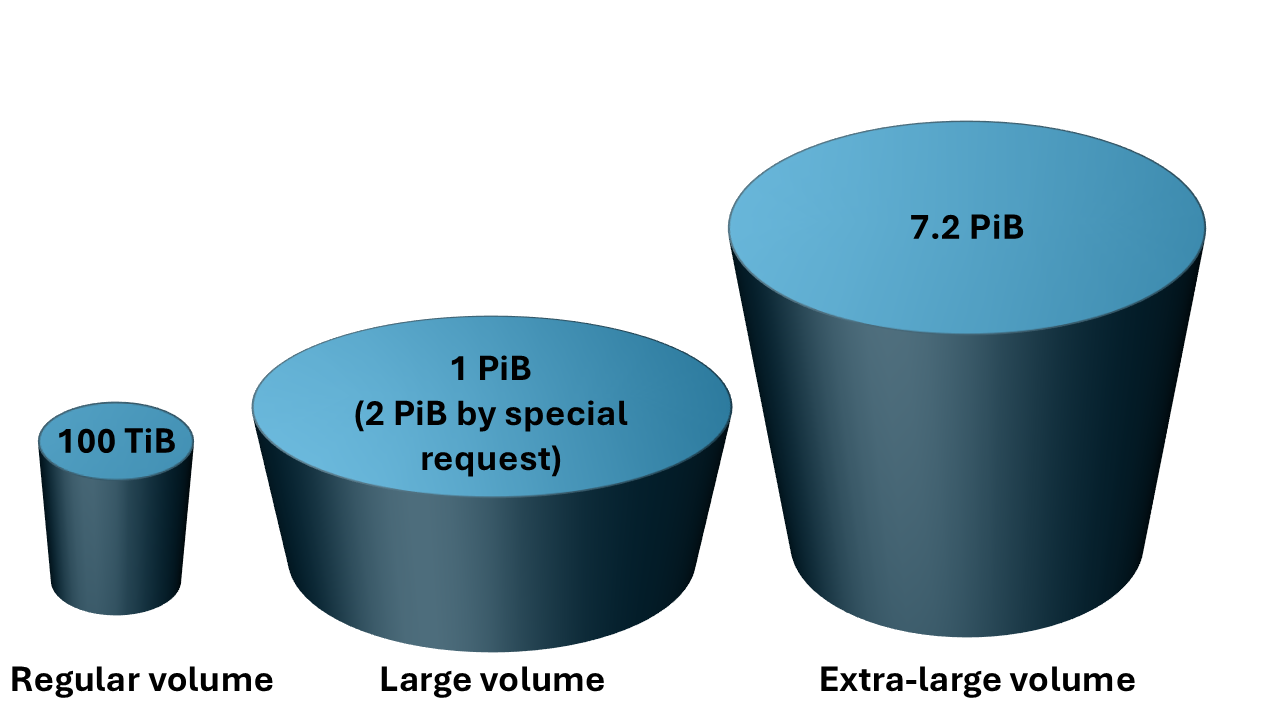
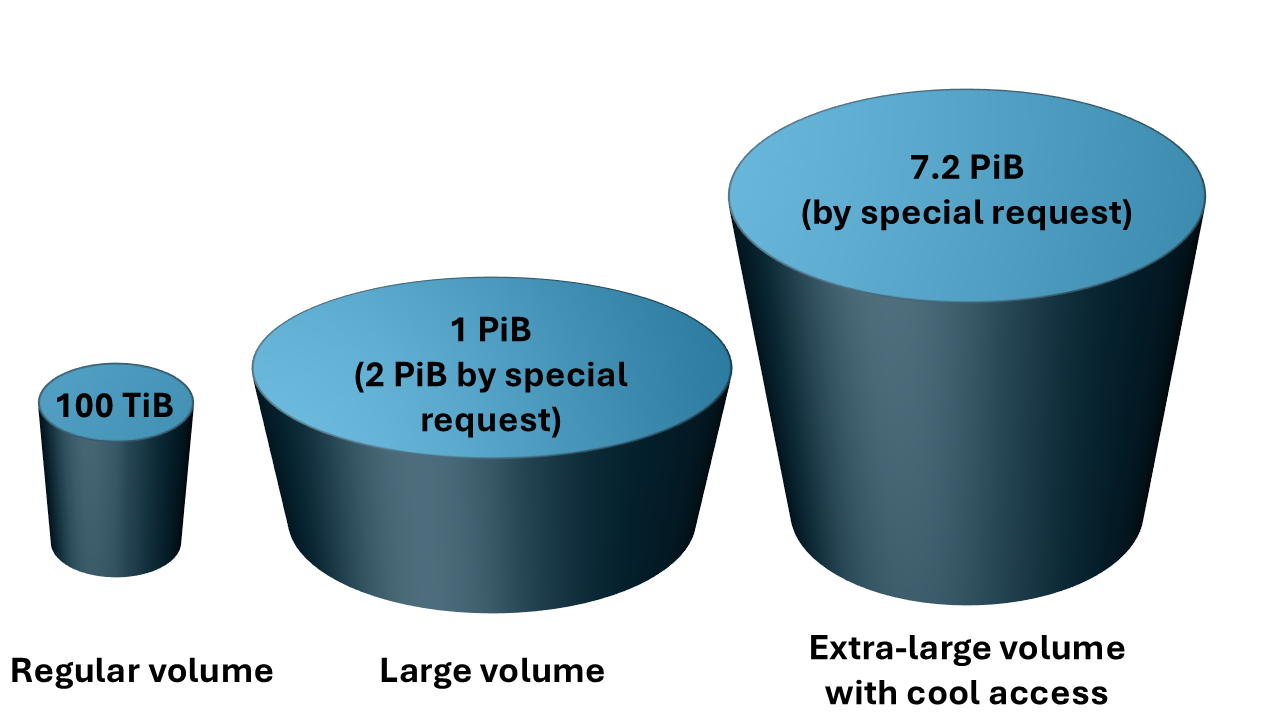
sme feedback

diff --git a/articles/azure-netapp-files/whats-new.md b/articles/azure-netapp-files/whats-new.md
@@ -17,14 +17,14 @@ ms.author: anfdocs
 
 Azure NetApp Files is updated regularly. This article provides a summary about the latest new features and enhancements.
 
-* [Extra-large volumes](large-volumes-requirements-considerations.md#register-for-extra-large-volumes) (preview)
+* [Large volumes up to 7.2 PiB with cool access](large-volumes-requirements-considerations.md#register-for-extra-large-volumes) (preview)
 
-    Extra-large volumes with cool access allows you to create Azure NetApp Files volumes with up to 7.2 PiB on dedicated capacity, designed for workloads where most data is rarely accessed. This enhancement extends cool-access support beyond the previous 2 PiB limit, giving you a new scale option for large deployments. By combining petabyte-scale capacity, cool-tier economics, and enterprise-grade performance, organizations can store massive datasets cost-effectively without compromising efficiency. 
+   Azure NetApp Files now supports large volumes up to 7.2 PiB on dedicated capacity, designed for workloads where most data is infrequently accessed. This enhancement extends cool access support beyond the previous 2 PiB limit, giving you a new scale option for large deployments. By combining petabyte-scale capacity, cool-tier economics, and enterprise-grade performance, organizations can store massive datasets cost-effectively without compromising efficiency. 
 
-    This capability helps reduce storage costs for infrequently accessed data while maintaining predictable performance for active workloads. It's ideal for industries managing large archives, backups, and compliance-driven datasets where 80–90% of data can reside in the cool tier. Use cases include archives, media libraries, healthcare imaging, compliance data lakes, AI/ML datasets, EDA projects, and large file shares—delivering multi-petabyte consolidation, transparent tiering, and lower TCO without sacrificing enterprise-grade performance. 
+    This capability helps reduce storage costs for infrequently accessed data while maintaining predictable performance for active workloads. It's ideal for industries managing large archives, backups, and compliance-driven datasets where at least 80% of data resides in the cool tier. Use cases include archives, media libraries, healthcare imaging, compliance data lakes, AI/ML datasets, EDA projects, and large file shares—delivering multi-petabyte consolidation, transparent tiering, and lower TCO without sacrificing enterprise-grade performance. 
 
-    This feature is supported in all regions that support [large volumes](large-volumes-requirements-considerations.md#supported-regions). Extra-large volumes with cool access is currently in preview. 
-
+    This feature is supported in all regions that support [large volumes](large-volumes-requirements-considerations.md#supported-regions). Large volumes up to 7.2 PiB with cool access is currently in preview.
+  
 ## October 2025
 
 * [Object REST API](object-rest-api-access-configure.md) (preview)

diff --git a/articles/azure-netapp-files/large-volumes-requirements-considerations.md b/articles/azure-netapp-files/large-volumes-requirements-considerations.md
@@ -12,7 +12,7 @@ ms.author: anfdocs
 ---
 # Requirements and considerations for Azure NetApp Files large volumes
 
-Large volumes are Azure NetApp Files volumes with a size of 50 TiB to 1,024 TiB. 
+Large volumes are Azure NetApp Files volumes with a size of 50 TiB to 1,024 TiB. With cool access enabled, large volumes can scale to 7.2 PiB in certain situations; for more information, see [extra-large volumes](#requirements-and-considerations-for-extra-large-volumes-preview).
 
 This article describes the requirements and considerations you need to be aware of before using [large volumes](azure-netapp-files-understand-storage-hierarchy.md#large-volumes) on Azure NetApp Files.
 
@@ -72,14 +72,11 @@ The following requirements and considerations apply to large volumes. For perfor
 * Cool access is supported with large volumes. You must be [registered to use cool access](manage-cool-access.md#register-the-feature) before creating a cool access-enabled large volume. 
 
 
-#### Requirements and considerations for extra-large volumes
+#### Requirements and considerations for extra-large volumes (preview)
 
-* Extra-large volumes are supported with cool access. This feature is currently in preview. 
+* Extra-large volumes are supported with cool access enabled at sizes between 2,400 GiB and 7.2 PiB.
   * If you're using the Flexible, Premium, or Ultra service levels, you must also [register to use those service levels with cool access](manage-cool-access.md#register-the-feature).
-* Extra-large volumes are supported at sizes between 2,400 GiB and 7.2 PiB.
-* With extra-large volumes, 90% of the data must reside on the cool tier. The remaining 10% can reside on the hot tier. 
-
-<!-- CRR requirements -->
+* With extra-large volumes, more than 80% of the data should reside in the cool tier.  
 
 ## About 64-bit file IDs
 

diff --git a/articles/azure-netapp-files/azure-netapp-files-resource-limits.md b/articles/azure-netapp-files/azure-netapp-files-resource-limits.md
@@ -37,7 +37,7 @@ The following table describes resource limits for Azure NetApp Files:
 | Large volume size increase | 30% of lowest provisioned size | Yes |
 |  Maximum size of a single [large volume](large-volumes-requirements-considerations.md)    | 1 PiB |    Yes**    |
 | Maximum size of a single large volume on dedicated capacity (preview) | 2 PiB | No |
-| Maximum size of an extra-large volume with cool access | 7.2 PiB | Yes |
+| Maximum size of an extra-large volume with cool access | 7.2 PiB | Yes** |
 |  Maximum size of a single file     |    16 TiB    |    No    |    
 |  Maximum size of directory metadata in a single directory      |    320 MB    |    No    |    
 |  Maximum number of files in a single directory  | *Approximately* 4 million. <br> See [Determine if a directory is approaching the limit size](directory-sizes-concept.md#directory-limit).  |    No    |   
@@ -58,7 +58,7 @@ The following table describes resource limits for Azure NetApp Files:
 
 \* [!INCLUDE [Limitations for capacity pool minimum of 1 TiB](includes/2-tib-capacity-pool.md)]
 
-\** 2-PiB [large volume](large-volumes-requirements-considerations.md) large volumes are available on request depending on regional dedicated capacity availability. To request 2-PiB large volumes, contact your account team. 
+\** Extend sizes for [large volumes](large-volumes-requirements-considerations.md) are available on request depending on regional dedicated capacity availability. To explore availability, contact your account team. 
 
 For more information, see [Capacity management FAQs](faq-capacity-management.md).
 
